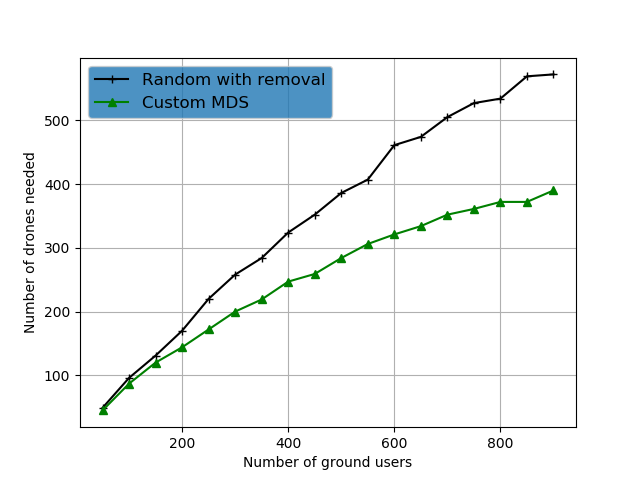
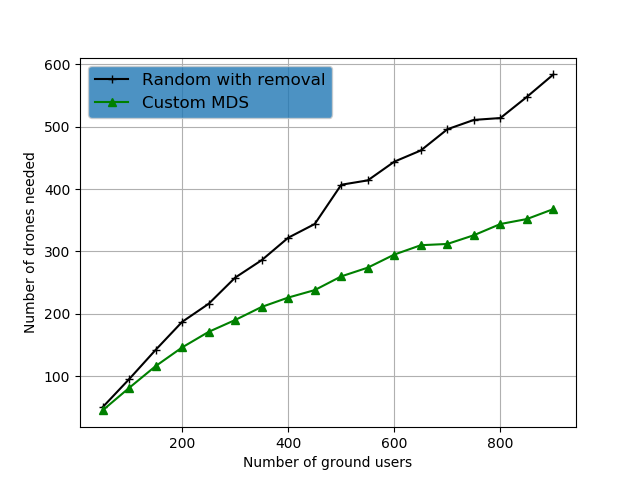
typos

Changed region(s): [[0.0625, 0.125, 0.9062, 0.8438], [0.0625, 0.125, 0.125, 0.1562]]

diff --git a/main.py b/main.py
@@ -23,8 +23,8 @@ def initialize_area():
 
         user_coordinates = list(zip(x_vals,y_vals))
 
-        x_grid_nos =(L/R) + 1 # number of different values the grid takes for x axis
-        y_grid_nos = (B/R) + 1 # number of different values the grid takes for y axis
+        x_grid_nos =(L/r) + 1 # number of different values the grid takes for x axis
+        y_grid_nos = (B/r) + 1 # number of different values the grid takes for y axis
 
         grid_x = np.linspace(0, L, num = x_grid_nos) # generate evenly spaced x positions for grid
         grid_y = np.linspace(0, B, num = y_grid_nos) # generate evenly spaced y positions for grid
@@ -49,6 +49,7 @@ def initialize_area():
         drones_CustomMDS.append(drones_needed_MDS)
 
 
+    # plot results
     fig, ax1 = plt.subplots()
 
     ax1.plot(users, drones_Random, 'k', marker='+', label = 'Random with removal')
@@ -68,7 +69,7 @@ def initialize_area():
 
 if __name__ == '__main__':
 
-    users = [50,100,150,200,250,300,350,400,450,500,550,600,650,700,750,800,850,900]
+    users = [50, 150, 250 ,  350, 450, 550,  650,  750,  850]
     print("users = ", users)
     drones_Random = []
     drones_CustomMDS = []

diff --git a/create_graph_1.py b/create_graph_1.py
@@ -94,10 +94,9 @@ def create_graph_1(user_coordinates, grid_coordinates):
 
     # plt.xlabel("X-axis (m)")
     # plt.ylabel("Y-axis (m)")
-    # plt.legend(loc='best', bbox_to_anchor=(0.5, -0.05), fancybox=True, shadow=False, ncol=4)
     # nx.draw_networkx_edge_labels(G,position_dict) #,edge_labels=labels)
 
-    # nx.draw_networkx(G, pos = position_dict, node_color=color_map, with_labels=True)
+    # nx.draw_networkx(G, pos = position_dict, node_color=color_map) #, with_labels=True)
     # plt.title("Coverage Plot for '{0}' users with R='{1}'".format(len(user_coordinates), R))    
     # plt.grid()
 

diff --git a/parameters.py b/parameters.py
@@ -33,3 +33,5 @@ Pn = from_dBm(-170) * BW # Watt, https://arxiv.org/pdf/1704.04813.pdf  page 21
 SNR_th = from_dB(10) # https://arxiv.org/pdf/1801.05000.pdf
 
 R = round(20*((2)**0.5), 3) # REMAINING, edge from a vertex a to b exist if distance between i and j < R
+
+r = 20 # grid length and breadth
